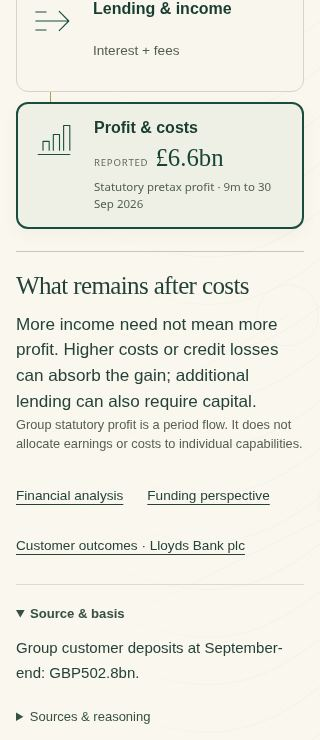
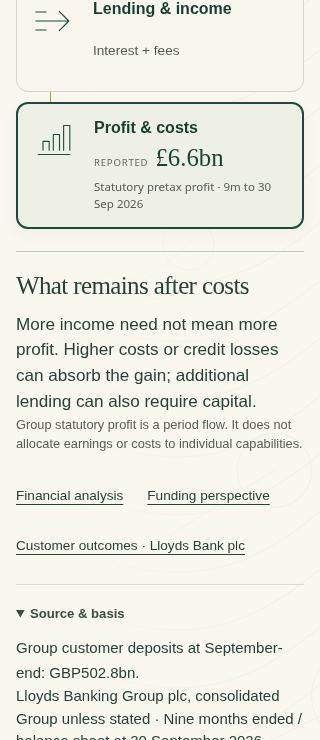
fix(flora): preserve agenda expiry, detail focus and bounded evidence inspection

Changed region(s): [[0.0312, 0.9324, 0.9375, 1.0]]

diff --git a/cios/applications/flora/visual_stream_assets/economics.css b/cios/applications/flora/visual_stream_assets/economics.css
@@ -1,1 +1,1 @@
-.economics{--econ-accent:#194c3c;max-width:980px;margin:auto}.economics.econ-airline{--econ-accent:#85451b}.economics h1{font-size:clamp(2rem,3.2vw,3.7rem);line-height:1.08;max-width:15ch;margin:.25em 0 .65em;color:#173e31}.economics .eyebrow{font-size:.74rem;letter-spacing:.09em}.econ-story{margin:0 0 2rem}.econ-story figcaption{font-size:.78rem;color:#62695e;margin-bottom:1rem}.econ-stages{list-style:none;padding:0;margin:0;display:grid;grid-template-columns:repeat(3,minmax(0,1fr));gap:16px;position:relative}.econ-stages:before{content:"";position:absolute;top:64px;left:12%;right:12%;border-top:1px solid #b69b60;z-index:0}.econ-stages li{min-width:0;position:relative}.econ-stages a{display:flex;flex-direction:column;align-items:flex-start;min-height:220px;height:100%;padding:18px 14px 16px;border:1px solid #d4d5c5;border-radius:12px;text-decoration:none!important;color:#193d30;background:#f8f6ed;position:relative;transition:background .15s}.econ-stages a:hover{background:#f1efdf}.econ-stages a[aria-current=page]{border:2px solid var(--econ-accent);padding:17px 13px 15px;background:#eef0e5;box-shadow:0 5px 16px #3447290c}.econ-airline .econ-stages a[aria-current=page]{background:#f6eee2}.econ-stages svg{width:56px;height:56px;fill:none;stroke:var(--econ-accent);stroke-width:1.6;stroke-linejoin:round;stroke-linecap:round;margin:0 0 14px}.econ-stage-name{font-size:.98rem;font-weight:650;line-height:1.3}.econ-number{font:1.75rem Georgia,serif;display:block;margin-top:14px;color:#1a4535;line-height:1.15}.econ-type{display:block;font: .65rem system-ui,sans-serif;text-transform:uppercase;letter-spacing:.08em;color:#62695e;margin-bottom:5px}.econ-number small{display:block;font: .73rem/1.45 system-ui,sans-serif;color:#535e50;margin-top:7px}.econ-mechanism{font-size:.85rem;line-height:1.5;color:#535e50;display:block;margin-top:14px}.econ-focus{border-top:1px solid #c7c7b2;padding-top:1.2rem;max-width:750px}.econ-focus h2{font:1.65rem/1.2 Georgia,serif;margin:0 0 .65rem!important}.econ-explanation{font-size:1.07rem;line-height:1.65;max-width:62ch}.econ-caveat{font-size:.8rem;line-height:1.5;color:#555e50;max-width:74ch}.econ-change{font-size:1rem;margin:.9rem 0;color:#214432}.econ-change strong{font:1.7rem Georgia,serif}.econ-change span{display:block;font-size:.75rem;margin-top:.3rem;color:#535e50}.econ-related{display:flex;flex-wrap:wrap;gap:6px 24px;margin:1.3rem 0 .7rem}.econ-related a{min-height:44px;display:inline-flex;align-items:center;font-size:.85rem}.econ-basis{margin:1rem 0 0!important;border-top:1px solid #dedacd;padding-top:.45rem;background:transparent!important}.econ-basis summary{min-height:44px;cursor:pointer;display:list-item;font-size:.82rem;color:#365140}.econ-basis .intelligence{font-size:.85rem}.economics a:focus-visible,.econ-basis summary:focus-visible{outline:3px solid #aa791a;outline-offset:4px}.economics .public-financial-facts{margin-top:1rem}@media(max-width:1000px){.econ-stages{gap:9px}.econ-stages a{padding:14px 10px;min-height:220px}.econ-stages a[aria-current=page]{padding:13px 9px}.econ-number{font-size:1.5rem}.econ-stage-name{font-size:.86rem}}@media(max-width:580px){.econ-stages{grid-template-columns:1fr;gap:10px}.econ-stages:before{top:15%;bottom:15%;left:34px;right:auto;border-top:0;border-left:1px solid #b69b60}.econ-stages a,.econ-stages a[aria-current=page]{display:grid;grid-template-columns:48px minmax(0,1fr);column-gap:14px;min-height:108px;padding:14px}.econ-stages svg{grid-row:1/3;width:44px;height:44px;margin:0}.econ-stage-name{font-size:1rem}.econ-number,.econ-mechanism{grid-column:2;margin-top:5px}.econ-number{font-size:1.55rem}.econ-type{display:inline;margin-right:7px;font-size:.6rem}.econ-number small{font-size:.72rem}.econ-story{margin-bottom:1.4rem}.economics h1{font-size:2.1rem}}@media(prefers-reduced-motion:reduce){.econ-stages a{transition:none}}@media print{.econ-stages a{box-shadow:none}.econ-related{display:none}.econ-basis{break-inside:avoid}}
+.economics{position:relative;--econ-accent:#194c3c;max-width:980px;margin:auto}.economics.econ-airline{--econ-accent:#85451b}.economics h1{font-size:clamp(2rem,3.2vw,3.7rem);line-height:1.08;max-width:15ch;margin:.25em 0 .65em;color:#173e31}.economics .eyebrow{font-size:.74rem;letter-spacing:.09em}.econ-story{margin:0 0 2rem}.econ-story figcaption{font-size:.78rem;color:#62695e;margin-bottom:1rem}.econ-stages{list-style:none;padding:0;margin:0;display:grid;grid-template-columns:repeat(3,minmax(0,1fr));gap:16px;position:relative}.econ-stages:before{content:"";position:absolute;top:64px;left:12%;right:12%;border-top:1px solid #b69b60;z-index:0}.econ-stages li{min-width:0;position:relative}.econ-stages a{display:flex;flex-direction:column;align-items:flex-start;min-height:220px;height:100%;padding:18px 14px 16px;border:1px solid #d4d5c5;border-radius:12px;text-decoration:none!important;color:#193d30;background:#f8f6ed;position:relative;transition:background .15s}.econ-stages a:hover{background:#f1efdf}.econ-stages a[aria-current=page]{border:2px solid var(--econ-accent);padding:17px 13px 15px;background:#eef0e5;box-shadow:0 5px 16px #3447290c}.econ-airline .econ-stages a[aria-current=page]{background:#f6eee2}.econ-stages svg{width:56px;height:56px;fill:none;stroke:var(--econ-accent);stroke-width:1.6;stroke-linejoin:round;stroke-linecap:round;margin:0 0 14px}.econ-stage-name{font-size:.98rem;font-weight:650;line-height:1.3}.econ-number{font:1.75rem Georgia,serif;display:block;margin-top:14px;color:#1a4535;line-height:1.15}.econ-type{display:block;font: .65rem system-ui,sans-serif;text-transform:uppercase;letter-spacing:.08em;color:#62695e;margin-bottom:5px}.econ-number small{display:block;font: .73rem/1.45 system-ui,sans-serif;color:#535e50;margin-top:7px}.econ-mechanism{font-size:.85rem;line-height:1.5;color:#535e50;display:block;margin-top:14px}.econ-focus{border-top:1px solid #c7c7b2;padding-top:1.2rem;max-width:750px}.econ-focus h2{font:1.65rem/1.2 Georgia,serif;margin:0 0 .65rem!important}.econ-explanation{font-size:1.07rem;line-height:1.65;max-width:62ch}.econ-caveat{font-size:.8rem;line-height:1.5;color:#555e50;max-width:74ch}.econ-change{font-size:1rem;margin:.9rem 0;color:#214432}.econ-change strong{font:1.7rem Georgia,serif}.econ-change span{display:block;font-size:.75rem;margin-top:.3rem;color:#535e50}.econ-related{display:flex;flex-wrap:wrap;gap:6px 24px;margin:1.3rem 0 .7rem}.econ-related a{min-height:44px;display:inline-flex;align-items:center;font-size:.85rem}.econ-basis{margin:1rem 0 0!important;border-top:1px solid #dedacd;padding-top:.45rem;background:transparent!important}.econ-basis summary{min-height:44px;cursor:pointer;display:list-item;font-size:.82rem;color:#365140}.econ-basis .intelligence{font-size:.85rem}.economics a:focus-visible,.econ-basis summary:focus-visible{outline:3px solid #aa791a;outline-offset:4px}.economics .public-financial-facts{margin-top:1rem}@media(max-width:1000px){.econ-stages{gap:9px}.econ-stages a{padding:14px 10px;min-height:220px}.econ-stages a[aria-current=page]{padding:13px 9px}.econ-number{font-size:1.5rem}.econ-stage-name{font-size:.86rem}}@media(max-width:580px){.econ-stages{grid-template-columns:1fr;gap:10px}.econ-stages:before{top:15%;bottom:15%;left:34px;right:auto;border-top:0;border-left:1px solid #b69b60}.econ-stages a,.econ-stages a[aria-current=page]{display:grid;grid-template-columns:48px minmax(0,1fr);column-gap:14px;min-height:108px;padding:14px}.econ-stages svg{grid-row:1/3;width:44px;height:44px;margin:0}.econ-stage-name{font-size:1rem}.econ-number,.econ-mechanism{grid-column:2;margin-top:5px}.econ-number{font-size:1.55rem}.econ-type{display:inline;margin-right:7px;font-size:.6rem}.econ-number small{font-size:.72rem}.econ-story{margin-bottom:1.4rem}.economics h1{font-size:2.1rem}}@media(prefers-reduced-motion:reduce){.econ-stages a{transition:none}}@media print{.econ-stages a{box-shadow:none}.econ-related{display:none}.econ-basis{break-inside:avoid}}

diff --git a/cios/applications/flora/enterprise_economics.py b/cios/applications/flora/enterprise_economics.py
@@ -53,7 +53,12 @@ def _basis(facts):
         sources = tuple(replace(s, url='https://www.lloydsbankinggroup.com/', locator='', quote='')
                         if 'lloydsbankinggroup.com' in s.url else replace(s, quote='') for s in fact.sources)
         with p.editorial_view(False):
-            items.append(p.render(replace(fact, sources=sources), compact=True))
+            # Retain the owning semantic formatter and every caveat, but use
+            # one inspection action rather than a disclosure for each fact.
+            rendered = p.render(replace(fact, sources=sources), compact=True)
+            rendered = rendered.replace('<details class="intelligence-source"><summary>Sources &amp; reasoning</summary>',
+                                        '<div class="econ-source">').replace('</details>', '</div>')
+            items.append(rendered)
     return ('<details class="econ-basis"><summary>Source &amp; basis</summary>'
             + ''.join(items) + '</details>')
 
@@ -86,8 +91,12 @@ def _composition(ctx, stages, selected, figures, facts, extra='', related=''):
                      + _icon(i, airline) + '<span class="econ-stage-name">' + escape(name) + '</span>' + amount + '</a></li>')
     active = next(row for row in stages if row[0] == selected)
     analysis = ctx.reading == 'insight'
-    return (STYLE + '<section class="economics ' + ('econ-airline' if airline else 'econ-bank') + '" aria-labelledby="economics-title">'
-            '<p class="eyebrow">' + company + '</p><h1 id="economics-title">' + title + '</h1>'
+    heading_id = 'insight-title' if ctx.detail else 'economics-title'
+    focus = ' id="insight" tabindex="-1"' if ctx.detail else ''
+    close = ('<a class="close close-insight" aria-label="Close economic detail" href="'
+             + escape(v.url(ctx, detail='', reading=ctx.reading), quote=True) + '#visual-content">×</a>') if ctx.detail else ''
+    return (STYLE + '<section class="economics ' + ('econ-airline' if airline else 'econ-bank') + '"' + focus + ' aria-labelledby="' + heading_id + '">'
+            + close + '<p class="eyebrow">' + company + '</p><h1 id="' + heading_id + '">' + title + '</h1>'
             '<figure class="econ-story"><figcaption>Illustrative ' + ('airline' if airline else 'banking') + ' model · not to scale</figcaption>'
             '<nav aria-label="Economic stages"><ol class="econ-stages">' + ''.join(links) + '</ol></nav></figure>'
             '<section class="econ-focus" aria-labelledby="economic-detail"><h2 id="economic-detail">' + escape(active[3]) + '</h2>'
@@ -142,7 +151,8 @@ def banking(ctx, data, issues, *, headers=None):
     claims = lloyds._claims(data, verified)
     stock, opening, profit = (lloyds._measure(claims.get(key), *basis)
                               for key, basis in lloyds.MEASURES.items())
-    change = leadership_agenda._deposit_change((opening, stock)) if opening and stock else None
+    change = (leadership_agenda._deposit_change((opening, stock)) if opening and stock
+              and any(issue.key == 'funding-base' for issue in issues) else None)
     selected = ctx.detail if ctx.detail in lloyds.LANDSCAPE_COMPONENTS else 'funding'
     figures = {}
     if stock:
@@ -153,7 +163,7 @@ def banking(ctx, data, issues, *, headers=None):
     extra = ''
     if selected == 'funding' and change and p.eligible(change):
         facts += [opening, change]
-        extra = ('<p class="econ-change" data-semantic-type="calculated">Calculated · <strong>£'
+        extra = ('<p class="econ-change" data-intelligence="funding-base" data-semantic-type="calculated">Calculated · <strong>£'
                  + escape(str(change.value)) + 'bn</strong> difference in deposits'
                  '<span>31 December 2025 → 30 September 2026 · two balance-sheet dates</span></p>'
                  '<p class="econ-caveat">A difference between reported balances, not an organic inflow or an income measure.</p>')

diff --git a/tests/test_flora_uxr1_650.py b/tests/test_flora_uxr1_650.py
@@ -36,6 +36,17 @@ def main(html):return html.split('<main ',1)[1].split('</main>',1)[0]
     ('/enterprises/lloyds',{'detail':['economics']}),('/industries/banking',{'detail':['boe']})])
 def test_customer_markup_has_no_research_controls_even_hidden_or_printable(path,query):
     html=v.render(path,query);body=main(html)
+    if path=='/enterprises/lloyds' and query.get('stream',['landscape'])==['landscape'] and not query.get('detail'):
+        # A1 expressly authorises one optional public evidence inspection in
+        # Economics. This changes no other screen's no-research-controls rule.
+        assert body.count('<details')==1
+        prefix,inspection=body.split('<details class="econ-basis">',1)
+        inspection,suffix=inspection.split('</details>',1)
+        assert '<details'not in inspection and '.pdf'not in inspection
+        assert 'Source &amp; basis'in inspection
+        assert 'href="https://www.lloydsbankinggroup.com/"'in inspection
+        assert 'primary_content_sha256'not in inspection and 'canonical acceptance'not in inspection
+        body=prefix+suffix
     assert '<details'not in body
     for text in ('Sources &amp; reasoning','Sources &amp; basis','Sources & detail','primary_content_sha256','reviewed excerpt','retrieval','canonical acceptance'):
         assert text not in body

diff --git a/tests/test_flora_enterprise_economics_a1.py b/tests/test_flora_enterprise_economics_a1.py
@@ -41,6 +41,7 @@ def test_three_connected_stages_share_modes_scope_and_native_urls(path, stages, 
         assert 'Illustrative' in html and 'not to scale' in html
         assert all(word not in html for word in ('What to investigate', 'No eligible reported measure', 'Research gap'))
         assert 'Source &amp; basis' in html
+        assert html.count('<details') == 1  # One inspection, no nested click tree.
         assert ('reading=insight' in html) == (reading == 'insight' or 'FLORA Insight' in html)
 
 
@@ -123,6 +124,13 @@ def test_source_recheck_does_not_trust_stale_calculated_agenda(monkeypatch):
     next(row for row in data['claims'] if row['id'] == 'LBG-AR25-DEPOSITS')['withdrawn'] = True
     html = economics.banking(ctx, data, stale, headers={})
     assert '£6.3bn' not in html and 'Funding perspective' not in html
+
+
+def test_expired_agenda_review_does_not_recreate_the_released_calculation():
+    ctx = v.resolve(BANK, {'stream': ['landscape']})
+    html = economics.banking(ctx, v.current_data(ctx), (), headers={})
+    assert '£502.8bn' in html and '£6.6bn' in html
+    assert '£6.3bn' not in html and 'data-intelligence="funding-base"' not in html
 
 
 @pytest.mark.parametrize('path', [BANK, AIR])

diff --git a/tools/research/experience_684_browser.py b/tools/research/experience_684_browser.py
@@ -21,10 +21,10 @@ SCENES = (
     ("uk-forces", "/?stream=forces&detail=political", "Political conditions"),
     ("uk-social", "/?stream=forces&detail=social", "Social conditions"),
     ("banking-forces", "/industries/banking?stream=forces&detail=buyer-power", "Buyer power"),
-    ("lloyds-landscape", "/enterprises/lloyds", "How does Lloyds make money?"),
+    ("lloyds-landscape", "/enterprises/lloyds", "From funding to earnings"),
     ("lloyds-inside", "/enterprises/lloyds?stream=inside", "Credit and customer service"),
     ("lloyds-forces", "/enterprises/lloyds?stream=forces", "What can put pressure on earnings?"),
-    ("easyjet-landscape", "/enterprises/easyjet/preview", "easyJet’s business and network"),
+    ("easyjet-landscape", "/enterprises/easyjet/preview", "From seats to earnings"),
     ("easyjet-inside", "/enterprises/easyjet/preview?stream=inside", "How easyJet operates"),
     ("easyjet-forces", "/enterprises/easyjet/preview?stream=forces", "Conditions affecting easyJet"),
 )

diff --git a/docs/flora-runtime/enterprise-economics-a1/Validation-and-Rollback.md b/docs/flora-runtime/enterprise-economics-a1/Validation-and-Rollback.md
@@ -20,6 +20,15 @@ The A1 suite checks finite stages/mode URLs, stock/flow/period/entity/basis sema
 
 The inherited public-financial test keeps its original positive/negative/withdrawal assertions; only the fallback title changes to the accepted design. Existing experience tests retain source-withdrawal, identity, route and distinct-perspective checks, replacing obsolete question headings, `data-component` markup, investigation prompts and placeholder expectations with the new headings/stage markup, labelled Insight and omission policy. The existing customer-outcomes link remains. No test is removed, marked skipped or xfailed.
 
+The first hosted head also exposed four specific integration cases, all corrected before final validation:
+
+- `test_customer_markup_has_no_research_controls_even_hidden_or_printable` had the older universal zero-disclosure expectation. Its two Lloyds Landscape cases now permit exactly the **one A1-commissioned** disclosure, require no nested controls/PDF links/private administration, then apply the original clean-editorial assertions to everything outside it. Every other screen retains the original rule.
+- EAI-2's browser requires the existing `data-intelligence="funding-base"` marker. It is retained on the single current calculated comparison, with no duplicate entry.
+- `test_expired_review_omits_all_new_views_without_empty_preview_sections` found that recomputing from still-eligible stock facts could resurrect a comparison after the existing agenda's release review expired. A1 now also requires that current existing-owner agenda entry; the new negative test preserves unrelated facts while suppressing the comparison/link. No review window or source permission is extended.
+- `test_every_interactive_detail_is_server_addressable_without_js[lloyds-landscape]` requires the existing `insight` focus landmark. Selected Economics details retain that landmark and its labelled heading. No detail or accessibility test is removed.
+
+The retained broad browser proof's two root headings are updated to the accepted design; its navigation, source, keyboard, layout and permission checks remain. These are explicit reconciliations, not refreshed inherited-failure signatures.
+
 Exact renderer evolution is bounded by `Renderer-Evolution.json` and an AST comparison that permits only six listed function bodies to differ. Imports, constants and every other function must remain exact. Unknown after-hashes fail validation. Original historical owner pins and their prior checks remain intact; the compatibility chain first validates the current cut then supplies the exact predecessor to historical checks. **This is development assurance, not a runtime rights/approval registry.** Neither `flora_ci.py` nor `flora-baseline-v1.json` changes. Any changed inherited failure/skip signature remains a failure, not an automatically accepted refresh.
 
 ## Withdrawal limits

diff --git a/docs/flora-runtime/enterprise-economics-a1/Architecture-and-Sources.md b/docs/flora-runtime/enterprise-economics-a1/Architecture-and-Sources.md
@@ -22,7 +22,7 @@ No annual renderer extension is necessary for this admitted slice. easyJet's FY2
 | --- | --- | --- |
 | `LBG-Q326-DEPOSITS`, `PR-LBG-Q326` | Existing released primary-supported public fact; **£502.8bn** consolidated Group customer-deposit stock at **30 September 2026**; Q3 statement published **29 October 2026** | Recompose only while current Source, primary verification and ISP-1 checks pass. Not lending income, budget or capability allocation. |
 | `LBG-AR25-DEPOSITS`, `PR-LBG-AR25` | Existing released public **£496.5bn** Group customer-deposit stock at **31 December 2025** | Used only in the existing two-date comparison/optional basis. No annualisation or organic-inflow assertion. |
-| Existing funding comparison | `leadership_agenda._deposit_change` checks common entity, reported actuals, exact units/bases and the two dates; **502.8 − 496.5 = £6.3bn** | Reproduced from current eligible inputs on render; no caller-cached agenda calculation trusted. Withdrawal of either input removes the derived output and its agenda link. |
+| Existing funding comparison | `leadership_agenda._deposit_change` checks common entity, reported actuals, exact units/bases and the two dates; **502.8 − 496.5 = £6.3bn** | Reproduced from current eligible inputs only while the existing-owner funding agenda entry remains eligible within its review window; no caller-cached calculation trusted. Withdrawal of either input or expiry of that release removes the derived output and its agenda link. |
 | `LBG-Q326-PROFIT`, `PR-LBG-Q326` | Existing released public **£6.6bn** consolidated Group **statutory pretax profit**, nine months ended **30 September 2026** | Period flow, shown separately from the deposit stock. No cost bridge, lending yield or capability allocation inferred. |
 | `PFI-Lloyds-Q326.json` three-measure candidate | #699 Source-owned bounded projection; **§2 unresolved**, contractual assessment null | **Inactive unchanged.** No net-interest-income/NIM/average-assets candidate is activated. Legacy released facts above do not clear or circumvent this hold. Positive legal-resolution tests remain explicitly isolated doubles. |
 | Lloyds §5 PDF locators | Internal original-source locators retained by existing Source owner | All A1 public inspection links use `https://www.lloydsbankinggroup.com/`; no direct Lloyds PDF link or copied source quote. §5 remains unresolved/deferred. |
